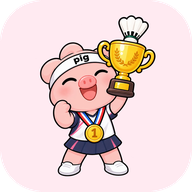
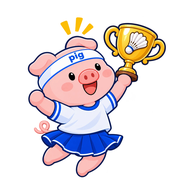
App 圖示換成舉獎盃的豬豬，底色改為白色
- icons/：用使用者提供的新圖重新產生 192、512、maskable 512、Apple 180 圖示（白色底）
- manifest.webmanifest：啟動畫面底色改為白色
- sw.js：快取 v9

Claude-Session: https://claude.ai/code/session_016oaFxd2MpVrvZULBeFfqnc

diff --git a/sw.js b/sw.js
@@ -6,7 +6,7 @@
 //
 // 修改網頁檔案後不需要改這裡；只有要清掉舊快取時才把 CACHE 的版本號加一。
 
-var CACHE = "badminton-v8";
+var CACHE = "badminton-v9";
 var SUPABASE_LIB = "https://cdn.jsdelivr.net/npm/@supabase/supabase-js@2.45.4/dist/umd/supabase.js";
 var SHELL = [
   "./badminton.html",
